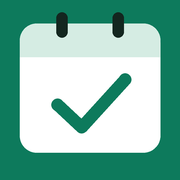
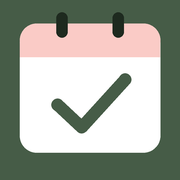
Change colour theme to sage green and blush
- Uses #465C47 as the main colour and #FACBC6 as the accent
  across tabs, buttons, progress, calendar and highlights
- Adds matching lighter tones for dark mode
- Recolours the app icon and theme colour to match

diff --git a/index.html b/index.html
@@ -7,8 +7,8 @@
 <meta name="description" content="Daily routine, to-dos, internship work tasks and daily reflections.">
 <link rel="manifest" href="manifest.webmanifest">
 <script>try{var t=localStorage.getItem("daybook-theme");if(t==="light"||t==="dark")document.documentElement.dataset.theme=t;}catch(e){}</script>
-<meta name="theme-color" content="#ffffff" media="(prefers-color-scheme: light)">
-<meta name="theme-color" content="#16211d" media="(prefers-color-scheme: dark)">
+<meta name="theme-color" content="#f4f6f2" media="(prefers-color-scheme: light)">
+<meta name="theme-color" content="#171d18" media="(prefers-color-scheme: dark)">
 <meta name="mobile-web-app-capable" content="yes">
 <meta name="apple-mobile-web-app-capable" content="yes">
 <meta name="apple-mobile-web-app-status-bar-style" content="default">
@@ -585,6 +585,60 @@ mark{background:color-mix(in srgb,var(--med) 35%,transparent);color:inherit;bord
 .authcard{background:var(--glass);-webkit-backdrop-filter:blur(18px) saturate(1.3);backdrop-filter:blur(18px) saturate(1.3);border-color:color-mix(in srgb,var(--line) 70%,transparent)}
 .authcard img{box-shadow:0 10px 26px var(--sp-glow)}
 @media (prefers-reduced-motion:reduce){.sp-bg i,.sp-icon,.sp-name,.sp-date,.sp-quote,.sp-bar i{animation:none}}
+
+/* ===== Sage & blush theme (#465C47 main, #FACBC6 accent) ===== */
+:root{
+  --bg:#f4f6f2; --surface:#ffffff; --sunk:#ecf0ea; --line:#dde4da; --ink:#1e2a1f; --muted:#68746a;
+  --accent:#465c47; --accent-2:#6a836b; --accent-ink:#ffffff; --accent-soft:#e3ebe1;
+  --pink:#facbc6; --pink-soft:#fdebe8; --pink-ink:#8c4a43;
+  --hero-a:#e4ece1; --hero-b:#fde6e2; --glass:rgba(255,255,255,.84);
+  --sp-base:#f4f6f2; --sp1:#c8d8c4; --sp2:#facbc6; --sp3:#dfe8d6; --sp-glow:rgba(70,92,71,.28);
+  --c0:#4a6fa5; --c0s:#e6edf7; --c1:#465c47; --c1s:#e3ebe1; --c2:#86659f; --c2s:#f0e9f5;
+  --c3:#b8743f; --c3s:#f8ece1; --c4:#c0646f; --c4s:#fde8e9; --c5:#3f8789; --c5s:#e1f1f1;
+  --ok:#4f7d50;
+}
+@media (prefers-color-scheme: dark){:root:not([data-theme="light"]){
+  --bg:#101411; --surface:#171d18; --sunk:#1e261f; --line:#2a352b; --ink:#e6ede5; --muted:#97a597;
+  --accent:#9ab89a; --accent-2:#b9d0b8; --accent-ink:#122014; --accent-soft:#25332a;
+  --pink:#f2b6af; --pink-soft:#3a2523; --pink-ink:#f6c6c0;
+  --hero-a:#1d2a1f; --hero-b:#2e2022; --glass:rgba(23,29,24,.84);
+  --sp-base:#0d110e; --sp1:#2c4430; --sp2:#5a3431; --sp3:#24331f; --sp-glow:rgba(154,184,154,.22);
+  --c0:#8fb0e3; --c0s:#1f2a3c; --c1:#a6c4a6; --c1s:#22301f; --c2:#c3a3dc; --c2s:#2d2438; --c3:#e3a774; --c3s:#382818; --c4:#ef9aa3; --c4s:#3b2226; --c5:#7cc6c8; --c5s:#183334;
+  --ok:#8cc08d; color-scheme:dark}}
+:root[data-theme="dark"]{
+  --bg:#101411; --surface:#171d18; --sunk:#1e261f; --line:#2a352b; --ink:#e6ede5; --muted:#97a597;
+  --accent:#9ab89a; --accent-2:#b9d0b8; --accent-ink:#122014; --accent-soft:#25332a;
+  --pink:#f2b6af; --pink-soft:#3a2523; --pink-ink:#f6c6c0;
+  --hero-a:#1d2a1f; --hero-b:#2e2022; --glass:rgba(23,29,24,.84);
+  --sp-base:#0d110e; --sp1:#2c4430; --sp2:#5a3431; --sp3:#24331f; --sp-glow:rgba(154,184,154,.22);
+  --c0:#8fb0e3; --c0s:#1f2a3c; --c1:#a6c4a6; --c1s:#22301f; --c2:#c3a3dc; --c2s:#2d2438; --c3:#e3a774; --c3s:#382818; --c4:#ef9aa3; --c4s:#3b2226; --c5:#7cc6c8; --c5s:#183334;
+  --ok:#8cc08d; color-scheme:dark}
+/* where the blush accent appears */
+nav.tabs a[aria-current="page"]{background:var(--accent);color:var(--accent-ink)}
+nav.tabs a[aria-current="page"] .count{background:var(--pink);color:#4a2622}
+nav.tabs .count{background:var(--pink-soft);color:var(--pink-ink)}
+.btn.primary{background:var(--accent);box-shadow:0 4px 14px color-mix(in srgb,var(--accent) 28%,transparent)}
+.btn.primary:hover{background:color-mix(in srgb,var(--accent) 88%,#000)}
+.qmode button[aria-pressed="true"]{background:var(--accent);color:var(--accent-ink)}
+.ring-bg{stroke:var(--pink-soft)}
+.ring-fg{stroke:var(--accent)}
+.hero-stats span{border-color:color-mix(in srgb,var(--pink) 45%,var(--line))}
+ol.timeline li.next{background:var(--pink-soft)}
+.impact{background:var(--pink-soft)}
+.impact svg{color:var(--pink-ink)}
+.tpill.focus{background:linear-gradient(135deg,var(--accent),color-mix(in srgb,var(--pink) 70%,var(--accent)))}
+.hb-streak.on svg,.co-stats svg{color:#e0857b}
+.cal-day.is-today .cal-n{background:var(--accent);color:var(--accent-ink)}
+.cal-day.is-sel{border-color:var(--pink);box-shadow:inset 0 0 0 2px var(--pink)}
+.mk-refl{background:var(--accent)} .mk-work{background:#e0857b}
+.chip[aria-pressed="true"],.stat[aria-pressed="true"]{background:var(--accent);color:var(--accent-ink);border-color:var(--accent)}
+.stat[aria-pressed="true"] span{color:var(--accent-ink);opacity:.85}
+.seg button[aria-pressed="true"],.mood button[aria-pressed="true"]{background:var(--accent-soft);border-color:var(--accent);color:var(--ink)}
+.bell[aria-pressed="true"]{background:var(--pink-soft);border-color:var(--pink);color:var(--ink)}
+.bell[aria-pressed="true"] svg{color:var(--pink-ink)}
+mark{background:color-mix(in srgb,var(--pink) 70%,transparent)}
+.sp-bar i{background:linear-gradient(90deg,var(--accent),var(--pink))}
+.wk-doc h2{color:var(--accent)}
 </style>
 </head>
 <body class="locked">
@@ -864,6 +918,6 @@ mark{background:color-mix(in srgb,var(--med) 35%,transparent);color:inherit;bord
     </form>
   </div>
 </div>
-<script type="module" src="app.js?v=10"></script>
+<script type="module" src="app.js?v=11"></script>
 </body>
 </html>

diff --git a/app.js b/app.js
@@ -728,7 +728,7 @@ function reportHTML(forFile){
   const body = reportSections(W).map(([h, items]) => `<h2>${esc(h)}</h2>${items.length ? `<ul>${items.map(x => `<li>${esc(x)}</li>`).join("")}</ul>` : `<p class="none">None</p>`}`).join("");
   const head = `<h1>${esc(reportTitle(W))}</h1>${S.name || S.org ? `<p class="who">${esc([S.name, S.org].filter(Boolean).join(" · "))}</p>` : ""}`;
   if (!forFile) return head + body;
-  return `<html><head><meta charset="utf-8"><title>${esc(reportTitle(W))}</title><style>body{font-family:Calibri,Arial,sans-serif;font-size:11pt;line-height:1.4;color:#111}h1{font-size:18pt;margin:0 0 4pt}h2{font-size:12pt;margin:14pt 0 4pt;color:#0f6f53;border-bottom:1px solid #ccd;padding-bottom:2pt}.who{color:#555;margin:0 0 8pt}ul{margin:0;padding-left:18pt}li{margin:2pt 0}.none{color:#888;margin:0}</style></head><body>${head}${body}</body></html>`;
+  return `<html><head><meta charset="utf-8"><title>${esc(reportTitle(W))}</title><style>body{font-family:Calibri,Arial,sans-serif;font-size:11pt;line-height:1.4;color:#111}h1{font-size:18pt;margin:0 0 4pt}h2{font-size:12pt;margin:14pt 0 4pt;color:#465c47;border-bottom:1px solid #ccd;padding-bottom:2pt}.who{color:#555;margin:0 0 8pt}ul{margin:0;padding-left:18pt}li{margin:2pt 0}.none{color:#888;margin:0}</style></head><body>${head}${body}</body></html>`;
 }
 function renderReport(){
   const W = weekData(S.wkOff);

diff --git a/sw.js b/sw.js
@@ -1,6 +1,6 @@
 // Keeps Daybook opening instantly and working offline.
 // Bump VERSION whenever you upload changed files so devices pick them up.
-const VERSION = "daybook-v10";
+const VERSION = "daybook-v11";
 const SHELL = ["./", "./index.html", "./app.js", "./firebase-config.js", "./seed.js", "./manifest.webmanifest", "./icon-192.png", "./icon-512.png", "./apple-touch-icon.png"];
 
 self.addEventListener("install", e => {
